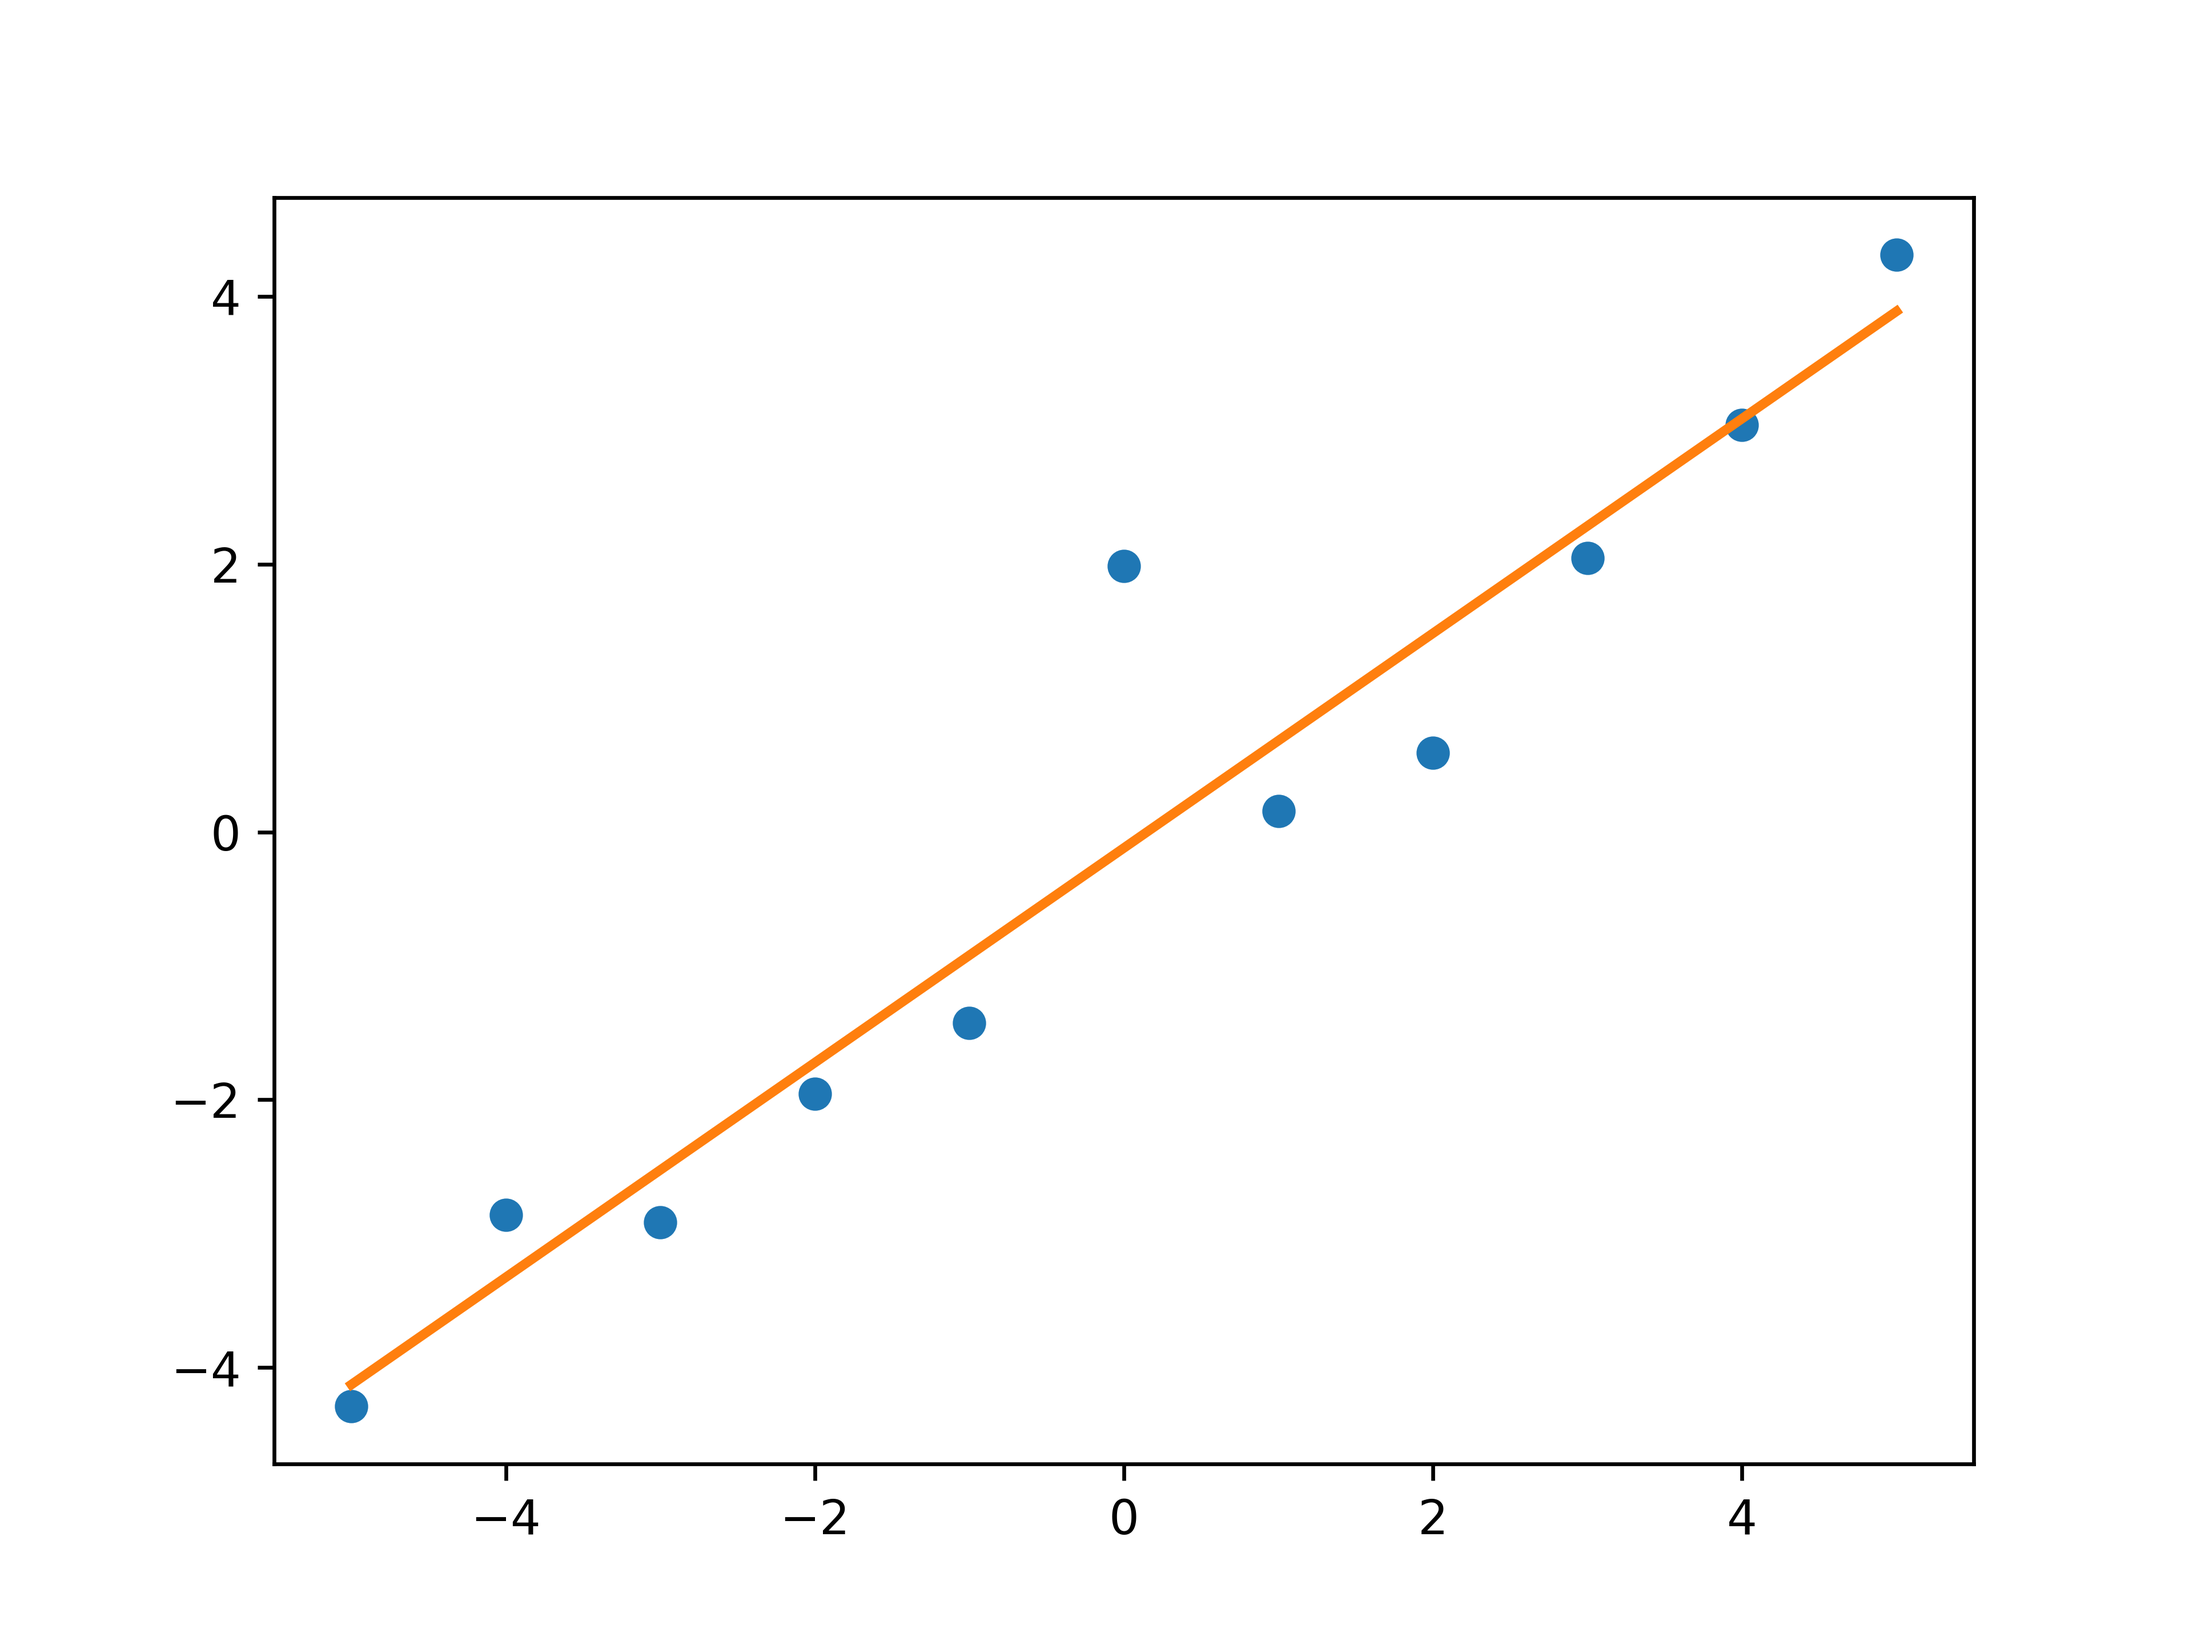
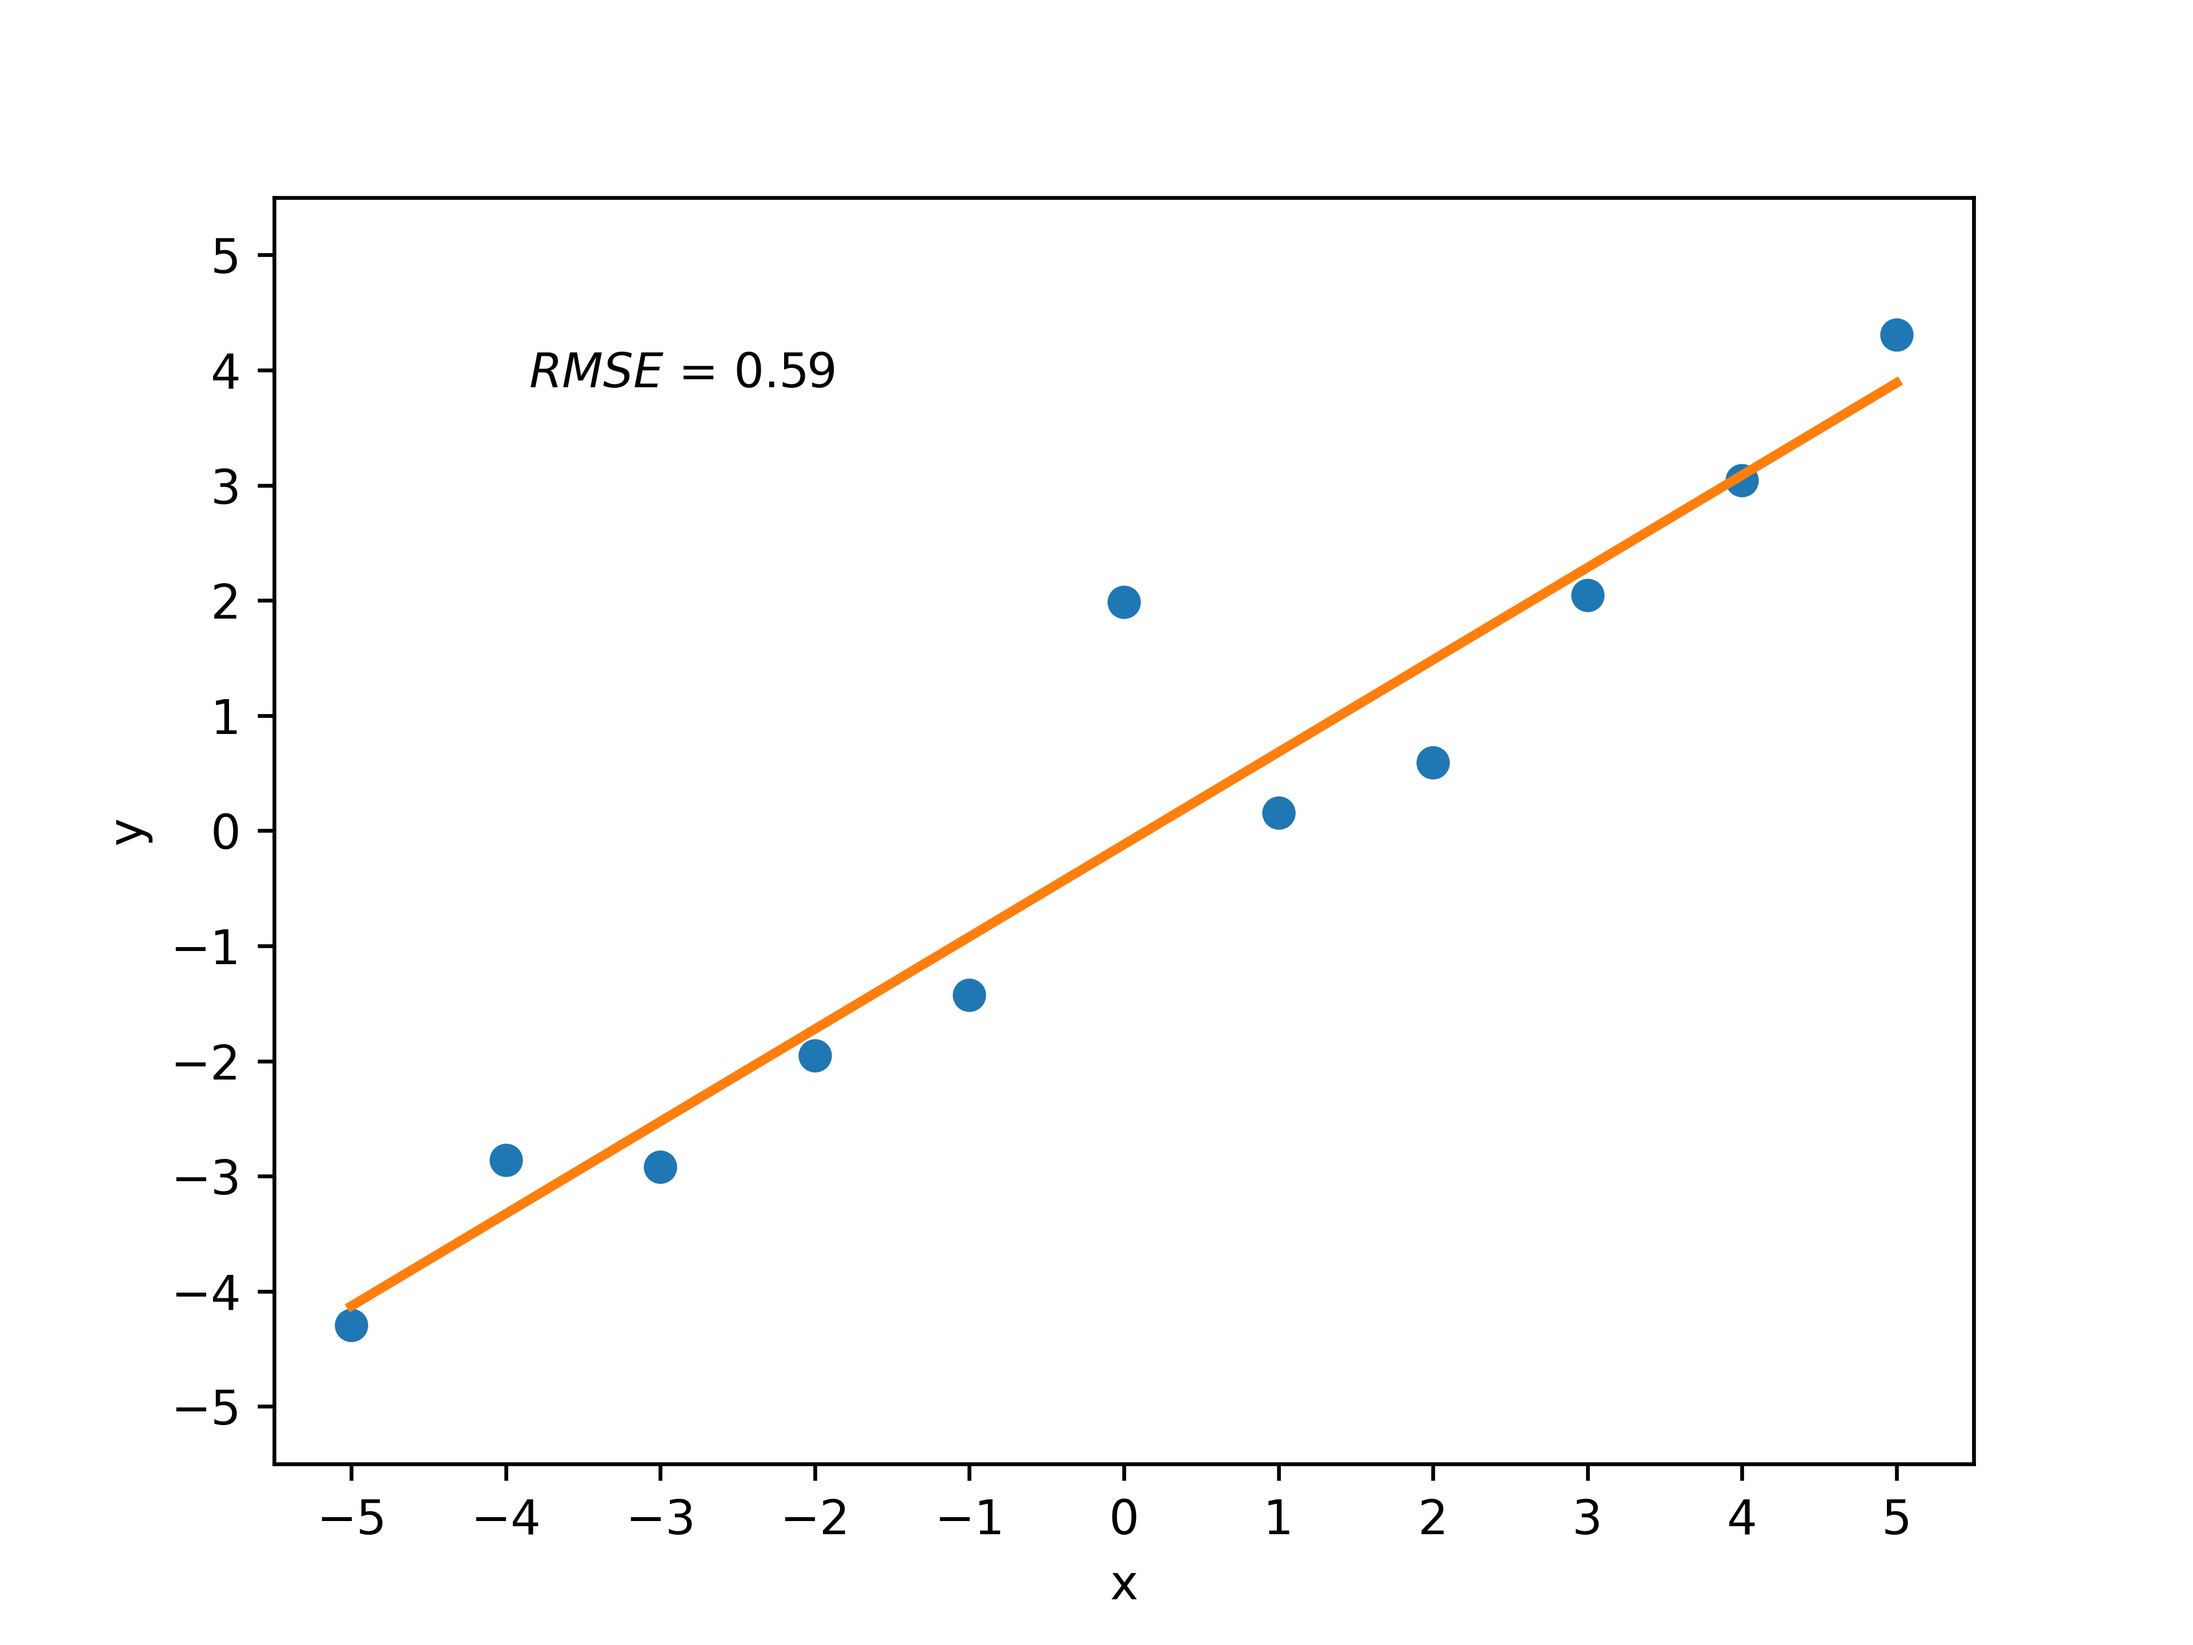
Update code and figure for linear regression

diff --git a/new_code1.py b/new_code1.py
@@ -1,0 +1,57 @@
+#!/usr/bin/env python3
+# Marcos del Cueto
+# Import libraries
+import math
+import random
+import numpy as np
+import matplotlib.pyplot as plt
+from sklearn import linear_model
+from sklearn.metrics import mean_squared_error, r2_score
+
+# Initialize lists and set random seed
+list_x = []
+list_y = []
+list_x_pred = []
+random.seed(19)
+# Create database with 11 points following quasi-lienar relation in interval x:[-5,5]
+for i in range(-5,6):
+    x = i
+    rnd_number = random.uniform(-2,2)
+    y = x + rnd_number
+    list_x.append(x)
+    list_y.append(y)
+    print(x,y)
+# Create list with 101 points in interval x:[-5,5]
+for i in range(-50,51):
+    x = 0.1*i
+    list_x_pred.append(x)
+# Transform lists to np arrays
+list_x = np.array(list_x).reshape(-1, 1)
+list_x_pred = np.array(list_x_pred).reshape(-1, 1)
+# Do linear regression using database with 11 points
+regr = linear_model.LinearRegression()
+regr.fit(list_x,list_y)
+# Calculate value of linear regressor at 101 points in interval x:[-5,5]
+list_y_pred = regr.predict(list_x_pred)
+# Print rmse value
+rmse = math.sqrt(mean_squared_error(list_x_pred, list_y_pred))
+print('Mean squared error: %.2f' % mean_squared_error(list_x_pred, list_y_pred))
+#print('Coefficient of determination: %.2f' % r2_score(list_x_pred, list_y_pred))
+# Set axes and labels
+fig = plt.figure()
+ax = fig.add_subplot()
+ax.set_xlim(-5.5,5.5)
+ax.set_ylim(-5.5,5.5)
+ax.xaxis.set_ticks(range(-5,6))
+ax.yaxis.set_ticks(range(-5,6))
+ax.set_xlabel('x')
+ax.set_ylabel('y')
+ax.annotate(u'$RMSE$ = %.2f' % rmse, xy=(0.15,0.85), xycoords='axes fraction')
+# Plot as orange line the regression line at interval
+plt.plot(list_x_pred,list_y_pred,color='C1',linestyle='solid',linewidth=2)
+# Plot as blue points the original database
+plt.scatter(list_x, list_y,color='C0')
+# Print plot to file
+file_name='Figure_1.png'
+plt.savefig(file_name,format='png',dpi=600)
+plt.close()

diff --git a/alpha.py b/alpha.py
@@ -37,7 +37,7 @@ list_x_pred = np.array(list_x_pred).reshape(-1, 1)
 
 list_y_pred = []
 short_list_y_pred = []
-for alpha_value in [0.0001,1,10000,100000000]:
+for alpha_value in [0.0001,0.1,10000,100000000]:
 #for alpha_value in [0.0001,0.001,0.1,1]:
     krr = KernelRidge(alpha=alpha_value,kernel='polynomial',degree=4)
     #krr = KernelRidge(alpha=alpha_value,kernel='rbf')
@@ -63,7 +63,7 @@ axs[0, 0].set_ylim(-200,500)
 axs[0, 1].scatter(list_x, list_y,color='C0')
 axs[0, 1].plot(list_x_pred,list_y_pred[1], color='C1')
 #axs[0, 1].plot(list_x_pred,list_y_real,color='C0',linestyle='dashed')
-axs[0, 1].set_title(r'$\alpha = 1$')
+axs[0, 1].set_title(r'$\alpha = 10^{-1}$')
 axs[0, 1].set_xlim(-5.1,5.1)
 axs[0, 1].set_ylim(-200,500)
 axs[1, 0].scatter(list_x, list_y,color='C0')

diff --git a/code3.py b/code3.py
@@ -29,7 +29,7 @@ for i in range(-50,56):
 list_x = np.array(list_x).reshape(-1, 1)
 list_x_pred = np.array(list_x_pred).reshape(-1, 1)
 
-krr = KernelRidge(alpha=1,kernel='polynomial',degree=4)
+krr = KernelRidge(alpha=0.1,kernel='polynomial',degree=4)
 krr.fit(list_x,list_y)
 list_y_pred = krr.predict(list_x_pred)
 new_y = krr.predict(list_x)

diff --git a/code2.py b/code2.py
@@ -14,7 +14,7 @@ list_x_pred = []
 random.seed(2020)
 for i in range(-10,12):
     x = i/2
-    rnd_number= 1*random.uniform(-1,1)
+    rnd_number= random.uniform(-1,1)
     #y = x + rnd_number
     y = (x+4)*(x+1)*(x-1)*(x-3) + rnd_number
     list_x.append(x)
